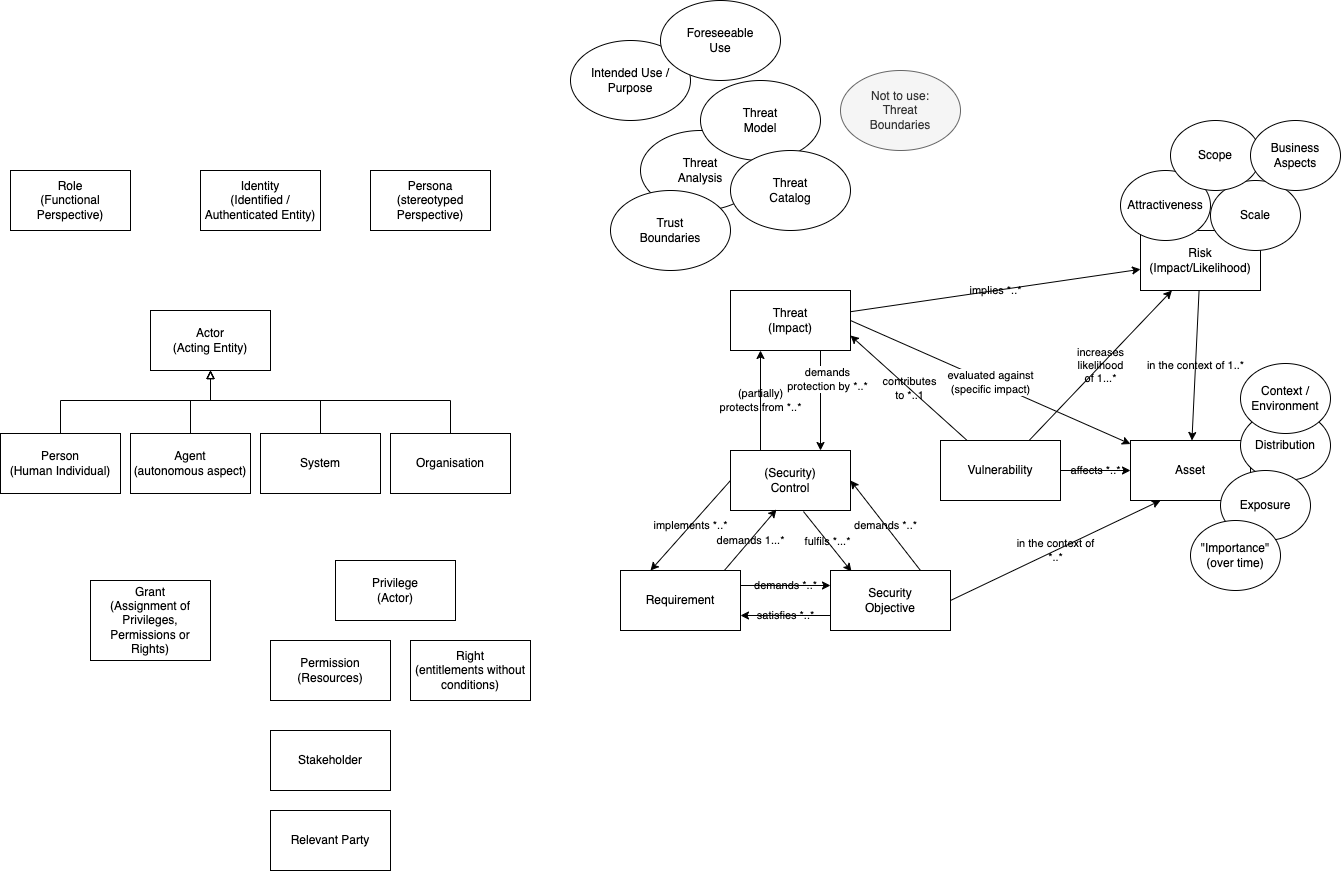
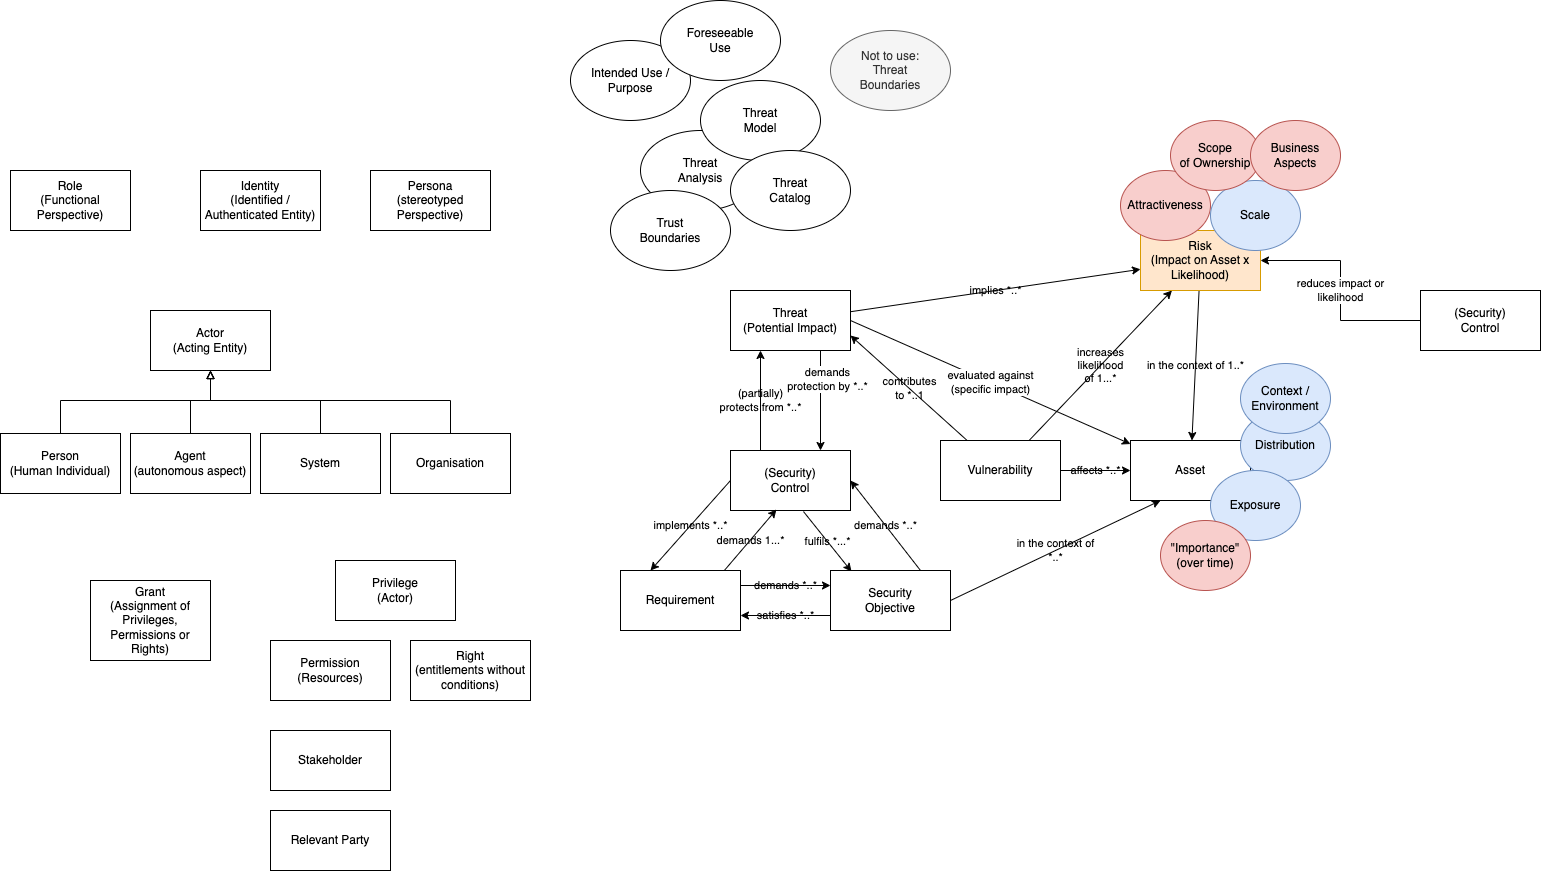
2026-03-30 meeting postprocessing

diff --git a/threats/2026/2026-03-16-SPDX-and-FAIR.md b/threats/2026/2026-03-16-SPDX-and-FAIR.md
@@ -1,0 +1,99 @@
+# FAIR and SPDX
+
+<sub>Prepared for the SPDX Working Group by Jack Jones</sub>
+
+<sub>Converted to markdown by Karsten Klein.</sub>
+
+## Part 1: How FAIR Approaches Component Risk
+Before getting into framework mechanics, it helps to start with a simple question: risk to whom, and in the form of what harm?
+
+When we analyze the risk associated with a component like a network attachment dongle, it’s easy to focus on the component's attributes: is the firmware signed?  Is the vendor still issuing patches?  Are update channels authenticated?  These are all legitimate and important questions, but they describe conditions, not risk.  Risk lives downstream of those conditions, in the harm that could come to the organization that purchased and deployed the device.
+
+Keeping the purchaser's harm front and center is exactly where FAIR starts.
+
+### Start with the Loss Event
+FAIR organizes risk analysis around loss events: specific, concrete things that cause harm to an asset owner.  In the case of a network dongle, the relevant loss event can be something like:
+> The dongle is exploited as an attack vector, enabling unauthorized access to systems on the purchaser's network, which results in harm."
+
+That one sentence does a lot of work.  It tells us who is harmed (the purchaser), what the mechanism of harm is (exploitation of the device), and what the consequence is: unauthorized network access that cascades into, for example data loss, operational disruption, regulatory exposure, and recovery costs.  Until we have that loss event scenario as an anchor, we can’t meaningfully reason about how serious the risk is or what to do about it.
+
+### Mapping the Working Group's Concerns to FAIR Concepts
+Scenarios like those raised in last week’s call (unauthorized updates and end-of-life (EOL) status) fit naturally into this framing once we have the loss event defined.
+#### Scenario 1: Unauthorized Update
+The authorized update concern is really a concern about supply chain integrity.  If a threat actor can tamper with a firmware update and deliver it through a legitimate channel, the dongle becomes a trusted but hostile presence on the network.  The control that prevents this, verifying that updates come from an authenticated, authorized source, directly reduces the likelihood that such a loss event occurs.  FAIR calls this loss event frequency: or how often a harmful action successfully compromise the asset and cause harm?  Strong update authentication keeps that number low.
+
+#### Scenario 2: Unsupported / End-of-Life Dongle
+The EOL concern is a different kind of problem.  It is not a specific attack; it’s the gradual degradation of a key control.  When a vendor stops issuing patches, vulnerabilities accumulate.  As time passes and those vulnerabilities become better understood by the attacker community, the likelihood of a successful exploit increases.  In FAIR terms, EOL status affects both threat capability (attackers have more to work with) and susceptibility (the device becomes progressively less resistant to attack).  The potential harm to the purchaser is the same as Scenario 1, but it’s potential increases on a slow curve rather than as a discrete event.
+
+### Why This Matters for Prioritization
+Here is where FAIR-like analysis earns its keep.  Not every dongle in every deployment carries the same risk, even if they share the same CVE profile or EOL date.  A dongle that manages access to a critical system on a sensitive network segment, in an environment with limited monitoring and slow incident response, carries far more risk than an identical dongle attached to an isolated, non-critical system in a well-monitored environment.
+
+Attribute-based scoring approaches, such as CVSS, tend to treat the component's properties as a proxy for risk.  FAIR treats the component's properties as inputs to the analysis, not the answer.  The answer depends on the environment, the exposure, the quality of surrounding controls, and the magnitude of harm if things go wrong.  That provides the basis for an assessment the purchaser actually needs.
+
+### A Practical Path Forward
+
+For the purposes of SPDX risk assessment work, it may be useful to think about component risk in two layers.
+
+The first layer is what FAIR calls **loss event frequency**: given this component in this deployment context, how likely is it that a harmful event occurs within some relevant time horizon?  Component attributes like update integrity and EOL status are key inputs here, but so are deployment context factors that sit outside the component itself.
+
+The second layer is **loss magnitude**: if the event occurs, how bad is it for the purchaser?  This depends heavily on what the component is connected to, what data or operations it touches, and how quickly the organization can detect and respond.
+
+Together, these two layers produce a risk estimate that supports decisions such as whether to accept the risk, mitigate it, transfer it, or avoid it.
+
+## Part 2: What’s needed to Support Risk Analysis
+
+As I understand it (and I may be wrong about this) SPDX provides a component description schema: it captures what a component is, including its identity, version, supplier, license, known vulnerabilities, and dependencies.  FAIR is fundamentally a loss event analysis framework.  It needs deployment-context data: what is this component connected to, how is it exposed, what controls surround it, and how sensitive or critical are the assets it touches.
+
+The gap between those two is where most of the work lives.
+
+
+It seems to me that current SPDX data can feed the threat capability and susceptibility inputs to a FAIR-style analysis -- CVE data, EOL status, and patch authentication mechanisms all speak to whether a component is exploitable and how easily.  But FAIR also needs data that SPDX may not currently have a home for.  Without those fields, SPDX data can tell you something about a component's exploitability, but not about the risk it poses to a specific purchaser in a specific deployment.
+What follows is an example set of deployment-context fields, organized by the analytical purpose they serve within FAIR's variable structure.  Not all of these would need to live in the core SPDX schema.  Some are component properties; others are deployment properties that might more naturally belong in a companion record associated with an SPDX bill of materials entry at the time of deployment.  That is an architectural question for the working group, but the field definitions below should help frame it.
+
+### Exposure Fields
+
+**Analytical purpose:** Feed threat contact frequency.  These describe how reachable the component is from the outside world.  A dongle sitting behind three layers of network segmentation with no remote management capability is a fundamentally different risk object than an identical dongle that is internet-reachable and remotely administered.
+
+* Network exposure tier: internet-facing / intranet-only / air-gapped / physically isolated
+* Remote management enabled: yes / no
+* Management interface type: vendor cloud portal / on-premises / none
+* Physical access requirements: open facility / controlled access / restricted or secured area
+* Authentication required for access: none / single factor / multi-factor
+
+### Asset Sensitivity Fields
+**Analytical purpose:** Feed loss magnitude.  These describe what the component can reach, which is the primary driver of how bad things get if it is compromised.
+
+* Data classification of accessible assets: public / internal / confidential / restricted
+* System criticality tier: non-critical / business-important / mission-critical
+* Regulatory scope: list applicable regimes (PCI-DSS, HIPAA, SOX, etc.) if any
+* Estimated population at risk: rough order of magnitude for records, users, or systems accessible through this component
+* Operational dependency: is this component in a path where failure or compromise causes operational disruption? (yes / no)
+
+### Control Environment Fields
+**Analytical purpose:** Feed resistance strength and loss magnitude via detection and response capability.  This is where FAIR most visibly departs from attribute-based scoring: the same component carries very different risk depending on what controls are wrapped around it in the specific deployment.
+
+* Patch and update management: automated with verification / manual with verification / manual without verification / none
+* Network monitoring coverage: full packet capture / flow data / agent-based / none
+* Alerting on anomalous component behavior: yes / no / unknown
+* Mean time to detect (estimated tier): hours / days / weeks / unknown
+* Mean time to respond (estimated tier): hours / days / weeks / unknown
+* Incident response plan covers this component type: yes / no / unknown
+
+### Threat Context Fields
+**Analytical purpose:** Feed threat capability and probability of action.  These are largely derivable from existing data sources such as CVE databases and threat intelligence feeds, but they need a home in the schema to be usable analytically.
+
+* Known active exploitation in the wild: yes / no / unknown
+* Public exploit code available: yes / no / unknown
+* Attacker community interest level: low / moderate / high (sourced from threat intel)
+* Component present in known attack campaigns: yes / no / unknown
+
+### Design Considerations for the Working Group
+
+**Field precision does not need to be high to be useful.** Ordinal tiers, such as internet-facing versus air-gapped, or mission-critical versus non-critical, capture most of the analytical leverage.  FAIR works well with ranges and ordinal judgments; it does not require false precision.
+
+**Component properties and deployment properties are different things.** The exposure, asset sensitivity, and control environment fields above describe the deployment, not the component itself.  They are likely better suited to a companion record structure that gets associated with an SPDX bill of materials entry at deployment time, rather than embedded in the core component description.
+
+**Some fields will be uncomfortable for vendors to populate.** Fields that imply liability-adjacent judgments about component behavior in specific environments are more naturally filled in by the purchaser and deployer.  The schema design should accommodate that division of responsibility.
+
+> Importantly, the goal here is not to impose FAIR's full machinery on SPDX.  It’s to help ensure that the data SPDX captures and the data FAIR needs are aligned, so that organizations using SPDX as a foundation can build toward useful risk estimates without having to reconstruct the context from scratch.  That alignment seems achievable, and the field list above might be a practical starting point for defining what it would take.  Also, the data needed for a FAIR analysis would be virtually identical for any risk measurement method.
+

diff --git a/threats/2026/2026-03-09-meeting-minutes.md b/threats/2026/2026-03-09-meeting-minutes.md
@@ -1,0 +1,25 @@
+# SPDX Threats and Controls Team Meeting 2026-03-09
+
+## Attendees
+
+- Raymond Sheh
+- Victor Lu
+- Greg Shue
+- Alfred Strauch
+- Steven Carbno
+- Rithika Rajamohan
+- Karsten Klein
+
+## Agenda
+
+- Risk quantification (continued)
+- Due to daylight savings the meeting was coordinated by Steve. More details will follow.
+
+## Notes
+
+## References
+
+- https://opentelemetry.io/
+- https://schema.ocsf.io/
+- https://docs.google.com/document/d/1Q2a2HAV_ipbPhV6pqWWqzxYjBaTKtIW7H_CfAFF0kek/edit?tab=t.nzfp3iwbm08e
+- https://discourse.ossbase.org/t/cra-and-gcve-overview/1017

diff --git a/threats/2026/2026-03-16-meeting-minutes.md b/threats/2026/2026-03-16-meeting-minutes.md
@@ -1,0 +1,24 @@
+# SPDX Threats and Controls Team Meeting 2026-03-16
+
+## Attendees
+
+- Raymond Sheh
+- Victor Lu
+- Greg Shue
+- Alfred Strauch
+- Steven Carbno
+- Nicole Pappler
+- Karsten Klein
+
+## Agenda
+
+- Processing the document from Jack Jones (FAIR) to align with SPDX-level risk discussion. 
+
+## Notes
+
+## References
+
+- https://opentelemetry.io/
+- https://schema.ocsf.io/
+- https://docs.google.com/document/d/1Q2a2HAV_ipbPhV6pqWWqzxYjBaTKtIW7H_CfAFF0kek/edit?tab=t.nzfp3iwbm08e
+- https://discourse.ossbase.org/t/cra-and-gcve-overview/1017

diff --git a/threats/2026/2026-03-02-meeting-minutes.md b/threats/2026/2026-03-02-meeting-minutes.md
@@ -1,0 +1,23 @@
+# SPDX Threats and Controls Team Meeting 2026-03-02
+
+## Attendees
+
+- Raymond Sheh
+- Victor Lu
+- Greg Shue
+- Nicole Pappler
+- Alfred Strauch
+- Steven Carbno
+- Karsten Klein
+
+## Agenda
+
+- Risk quantification
+- Due to daylight savings the meeting was coordinated by Steve. More details will follow.
+
+## Notes
+
+## References
+
+- https://www.fairinstitute.org/hubfs/FAIR%20CRM%20Body%20of%20Knowledge/FAIR%20Institute%20--%20Cyber%20Risk%20Scenario%20Taxonomy%20(February%202025).pdf
+- https://arxiv.org/pdf/2407.14981
